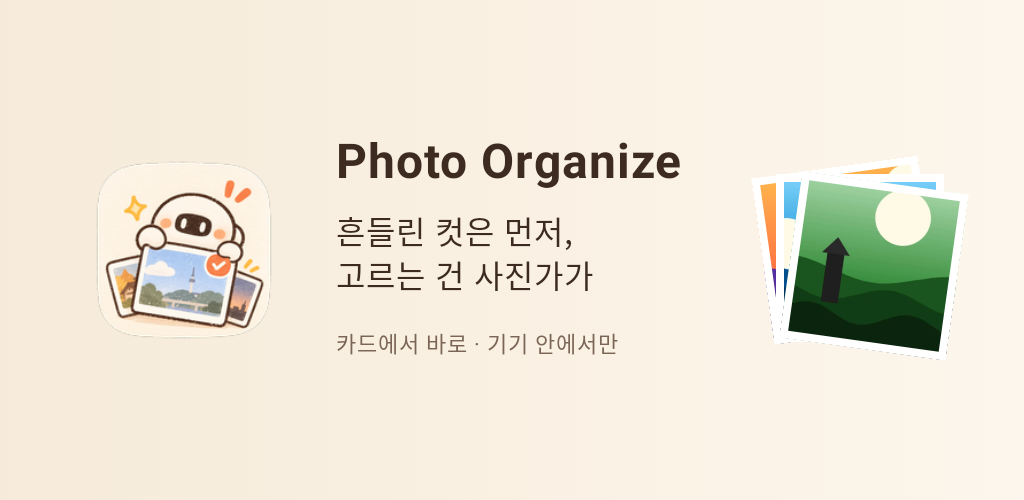
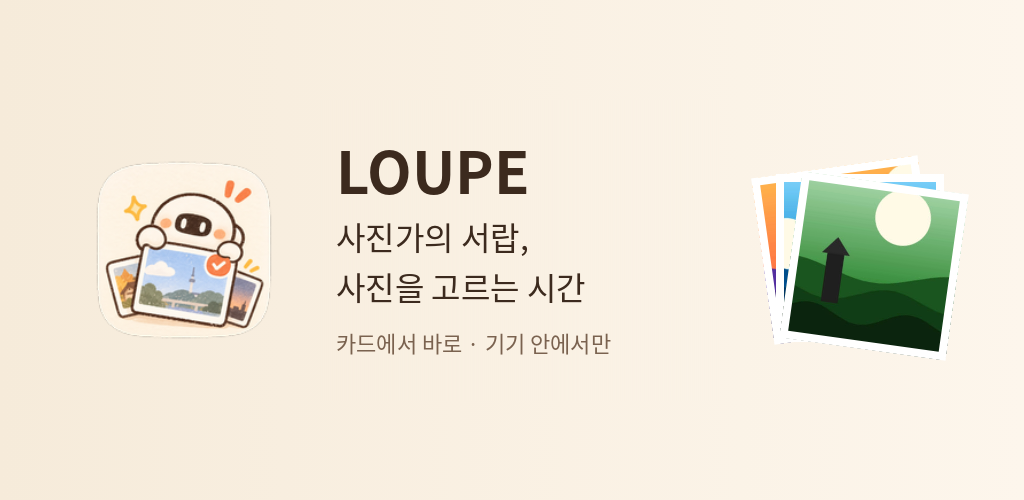
브랜딩 통일: LOUPE — 사진가의 서랍, 사진을 고르는 시간
- 앱 표시 이름 · 창 제목 · macOS .app 이름 · Windows 실행 파일 정보를 LOUPE 로 통일
- 데스크톱 첫 화면 · 안드로이드 설정 화면 · 판매 사이트 · README 에 '사진가의 서랍, 사진을 고르는 시간' 반영
- Google Play · Mac App Store 등록 문구 및 그래픽 이미지(feature-graphic.png)를 LOUPE 브랜딩으로 갱신
- 파일 형식 · 카탈로그 폴더(.photo-organize) · 설정 폴더 · 번들/패키지 ID 는 기존 호환을 위해 그대로 유지

Changed region(s): [[0.3125, 0.42, 0.5938, 0.63], [0.3125, 0.27, 0.6875, 0.39], [0.3438, 0.66, 0.625, 0.72]]

diff --git a/site/web/index.html b/site/web/index.html
@@ -2,9 +2,9 @@
 <html lang="ko">
 <head>
 <!--#include head-->
-<title>Photo Organize — 고를수록 내 눈을 닮아 가는 셀렉</title>
+<title>LOUPE — 사진가의 서랍, 사진을 고르는 시간</title>
 <meta name="description" content="SD 카드를 꽂으면 날짜별로 정리하고, 흔들리고 핀 나간 B컷은 먼저 걸러 두고, 잘 나온 A컷은 앞에 모아 두는 사진가의 셀렉 앱. 고를수록 내 기준과 취향을 배우고, 사진은 기기 밖으로 나가지 않습니다.">
-<meta property="og:title" content="Photo Organize — 고를수록 내 눈을 닮아 가는 셀렉">
+<meta property="og:title" content="LOUPE — 사진가의 서랍, 사진을 고르는 시간">
 <meta property="og:description" content="B컷은 먼저 걸러 두고, A컷은 먼저 보여 주는 사진가의 셀렉 앱. 사진은 기기 밖으로 나가지 않아요.">
 </head>
 <body>
@@ -16,7 +16,7 @@
 <section class="hero">
   <div class="wrap">
     <div>
-      <span class="eyebrow">사진가를 위한 정리 · 셀렉 앱</span>
+      <span class="eyebrow">LOUPE · 사진가의 서랍, 사진을 고르는 시간</span>
       <h1 class="display">고를수록<br><span class="nowrap"><em>내 눈</em>을 닮아 가는</span><br>셀렉</h1>
       <p class="lead">수천 장 가운데 흔들리고 핀 나간 B컷은 먼저 걸러 두고, 잘 나온 A컷은 앞에 모아 둡니다. 평소처럼 고르기만 하면, 당신의 기준과 취향을 배워요.</p>
       <div class="hero-cta">
@@ -36,8 +36,8 @@
         <span class="sparkle s1" aria-hidden="true"><svg><use href="#i-sparkle"/></svg></span>
         <span class="sparkle s2" aria-hidden="true"><svg><use href="#i-sparkle"/></svg></span>
         <span class="sparkle s3" aria-hidden="true"><svg><use href="#i-sparkle"/></svg></span>
-        <div class="window" role="img" aria-label="Photo Organize 화면: 가져온 사진 가운데 B컷 후보를 걸러 두고 A컷 후보를 먼저 보여 주는 모습">
-          <div class="window-bar"><i></i><i></i><i></i><span class="window-title">Photo Organize — <b data-demo-title>새 항목 12장</b></span></div>
+        <div class="window" role="img" aria-label="LOUPE 화면: 가져온 사진 가운데 B컷 후보를 걸러 두고 A컷 후보를 먼저 보여 주는 모습">
+          <div class="window-bar"><i></i><i></i><i></i><span class="window-title">LOUPE — <b data-demo-title>새 항목 12장</b></span></div>
           <div class="cull-bar"><span data-demo-bar><strong>가져오기 완료</strong> · 날짜별 폴더로 정리됨</span><span class="learned">학습됨 · A 122 · B 33</span></div>
           <div class="grid-demo" data-grid data-step="0">
             <noscript><img src="/assets/shots/taste.jpg" alt="" style="grid-column:1/-1"></noscript>
@@ -249,7 +249,7 @@
       </article>
       <article class="plan featured reveal" data-plan>
         <span class="ribbon">구독 없음</span>
-        <h3 data-plan-name>Photo Organize 라이선스</h3>
+        <h3 data-plan-name>LOUPE 라이선스</h3>
         <div class="amount"><span data-plan-price>89,000</span><small>원</small></div>
         <div class="amount-note" data-plan-note>한 번 결제 · 구독 없음</div>
         <ul data-plan-features>
@@ -276,7 +276,7 @@
       <details><summary>구독인가요?</summary><p>아니요. 한 번 결제하면 계속 쓸 수 있어요. 결제 후 1년 동안 나오는 새 버전은 무료이고, 그 뒤에도 쓰던 버전은 그대로 쓸 수 있습니다.</p></details>
       <details><summary>사진이 서버로 올라가나요?</summary><p>아니요. 분석과 학습은 모두 내 컴퓨터에서 해요. 이 웹사이트에는 결제와 라이선스에 필요한 정보(이메일, 주문, 등록한 컴퓨터 이름)만 저장됩니다.</p></details>
       <details><summary>어떤 카메라를 지원하나요?</summary><p>Canon · Nikon · Sony · Fujifilm · Panasonic · OM · Pentax · Leica 등 대부분의 RAW와 JPEG · HEIF를 읽어요. RAW 안에 들어 있는 미리보기를 쓰기 때문에 새 기종도 대개 바로 열립니다.</p></details>
-      <details><summary>라이트룸과 같이 쓸 수 있나요?</summary><p>네. 별점과 거절은 XMP 사이드카에 기록돼 Lightroom · Bridge에서 그대로 보이고, 작품 폴더는 폴더째 가져와 편집하면 됩니다. Photo Organize에는 편집 기능을 일부러 넣지 않았어요.</p></details>
+      <details><summary>라이트룸과 같이 쓸 수 있나요?</summary><p>네. 별점과 거절은 XMP 사이드카에 기록돼 Lightroom · Bridge에서 그대로 보이고, 작품 폴더는 폴더째 가져와 편집하면 됩니다. LOUPE에는 편집 기능을 일부러 넣지 않았어요.</p></details>
       <details><summary>B컷을 자동으로 지우나요?</summary><p>아니요. 표시만 합니다. 거절한 사진도 파일은 그대로 남고, 언제든 되돌릴 수 있어요. 셀렉이 끝나 정말 필요 없는 사진은 직접 <b>휴지통으로</b> 옮길 수 있는데, 먼저 묻고 RAW · JPEG · XMP를 함께 시스템 휴지통으로 옮기므로 비우기 전에는 되살릴 수 있어요. 지운 사진의 거절 · 픽 · 별점은 학습 기록으로 남아 셀렉 도우미가 잊지 않습니다.</p></details>
       <details><summary>컴퓨터를 바꾸면 어떻게 하나요?</summary><p>라이선스 하나로 컴퓨터 3대까지 쓸 수 있어요. <a href="/account">내 라이선스</a>에서 쓰지 않는 컴퓨터를 빼면 새 컴퓨터를 등록할 수 있습니다.</p></details>
       <details><summary>환불은 어떻게 하나요?</summary><p>결제 후 {{refundDays}}일 안에는 이유를 묻지 않고 전액 환불해 드려요. 자세한 내용은 <a href="/refund">환불 규정</a>을 봐 주세요.</p></details>

diff --git a/site/web/privacy.html b/site/web/privacy.html
@@ -2,7 +2,7 @@
 <html lang="ko">
 <head>
 <!--#include head-->
-<title>개인정보처리방침 — Photo Organize</title>
+<title>개인정보처리방침 — LOUPE</title>
 </head>
 <body>
 <!--#include icons-->
@@ -12,7 +12,7 @@
     <span class="eyebrow">개인정보</span>
     <h1>개인정보처리방침</h1>
     <p>{{business.name}}(이하 “판매자”)은 「개인정보 보호법」에 따라 이용자의 개인정보를 보호하고, 관련 고충을 신속하게 처리하기 위해 다음과 같이 개인정보처리방침을 둡니다.</p>
-    <p><b>Photo Organize 앱은 사진을 이용자의 컴퓨터 안에서만 처리하며, 사진이나 사진의 분석 결과를 판매자에게 보내지 않습니다.</b> 이 방침은 라이선스 구매 · 관리를 위해 이 웹사이트에서 처리하는 정보에 대한 것입니다.</p>
+    <p><b>LOUPE 앱은 사진을 이용자의 컴퓨터 안에서만 처리하며, 사진이나 사진의 분석 결과를 판매자에게 보내지 않습니다.</b> 이 방침은 라이선스 구매 · 관리를 위해 이 웹사이트에서 처리하는 정보에 대한 것입니다.</p>
     <p><b>Mac App Store 에서 받은 앱</b>은 인터넷에 연결하지 않으며, 어떤 정보도 판매자에게 보내지 않습니다. App Store 의 구매 · 결제 정보는 Apple 이 처리하며 판매자는 받지 않습니다.</p>
     <p><b>Google Play 에서 받은 안드로이드 앱</b>은 인터넷 권한이 없어 어떤 정보도 기기 밖으로 보내지 않습니다. 사진과 셀렉 기록은 기기 안의 앱 전용 폴더에만 저장되고, 앱을 지우면 함께 지워집니다. Google Play 의 구매 · 결제 정보는 Google 이 처리하며 판매자는 받지 않습니다.</p>
 

diff --git a/site/web/terms.html b/site/web/terms.html
@@ -2,7 +2,7 @@
 <html lang="ko">
 <head>
 <!--#include head-->
-<title>이용약관 — Photo Organize</title>
+<title>이용약관 — LOUPE</title>
 </head>
 <body>
 <!--#include icons-->
@@ -13,11 +13,11 @@
     <h1>이용약관</h1>
 
     <h2>제1조 (목적)</h2>
-    <p>이 약관은 {{business.name}}(이하 “판매자”)이 이 웹사이트에서 판매하는 Photo Organize 소프트웨어 라이선스(이하 “라이선스”)와 관련 서비스의 이용 조건 및 절차, 판매자와 이용자의 권리 · 의무를 정합니다.</p>
+    <p>이 약관은 {{business.name}}(이하 “판매자”)이 이 웹사이트에서 판매하는 LOUPE 소프트웨어 라이선스(이하 “라이선스”)와 관련 서비스의 이용 조건 및 절차, 판매자와 이용자의 권리 · 의무를 정합니다.</p>
 
     <h2>제2조 (정의)</h2>
     <ul>
-      <li>“앱”이란 판매자가 배포하는 사진 정리 · 셀렉 프로그램 Photo Organize를 말합니다.</li>
+      <li>“앱”이란 판매자가 배포하는 사진 정리 · 셀렉 프로그램 LOUPE를 말합니다.</li>
       <li>“라이선스”란 앱을 이 약관에 따라 사용할 수 있는 권리를, “라이선스 키”란 이를 확인하는 문자열을 말합니다.</li>
       <li>“이용자”란 이 웹사이트에 로그인해 라이선스를 구매하거나 관리하는 사람을 말합니다.</li>
     </ul>

diff --git a/android/app/src/test/java/io/github/mj_best/photoorganize/ScreensTest.kt b/android/app/src/test/java/io/github/mj_best/photoorganize/ScreensTest.kt
@@ -233,9 +233,9 @@ private fun FeatureGraphic(photos: List<ImageBitmap>) {
             )
             androidx.compose.foundation.layout.Spacer(androidx.compose.ui.Modifier.size(14.dp))
             androidx.compose.foundation.layout.Column(androidx.compose.ui.Modifier.weight(1f)) {
-                androidx.compose.material3.Text("Photo Organize", color = p.text, fontSize = 24.sp, fontWeight = androidx.compose.ui.text.font.FontWeight.Bold, softWrap = false)
+                androidx.compose.material3.Text("LOUPE", color = p.text, fontSize = 30.sp, fontWeight = androidx.compose.ui.text.font.FontWeight.Bold, softWrap = false)
                 androidx.compose.foundation.layout.Spacer(androidx.compose.ui.Modifier.height(8.dp))
-                androidx.compose.material3.Text("흔들린 컷은 먼저,\n고르는 건 사진가가", color = p.text, fontSize = 16.sp, lineHeight = 22.sp, softWrap = false)
+                androidx.compose.material3.Text("사진가의 서랍,\n사진을 고르는 시간", color = p.text, fontSize = 16.sp, lineHeight = 22.sp, softWrap = false)
                 androidx.compose.foundation.layout.Spacer(androidx.compose.ui.Modifier.height(10.dp))
                 androidx.compose.material3.Text("카드에서 바로 · 기기 안에서만", color = p.text2, fontSize = 11.sp, softWrap = false)
             }

diff --git a/site/web/js/account.js b/site/web/js/account.js
@@ -30,7 +30,7 @@ function licenseCard(l) {
   return `
     <section class="panel license">
       <div style="display:flex;justify-content:space-between;align-items:center;gap:12px;flex-wrap:wrap">
-        <h2 style="margin:0">Photo Organize 라이선스</h2>
+        <h2 style="margin:0">LOUPE 라이선스</h2>
         <span class="status${active ? '' : ' off'}">${active ? '사용 중' : '해지됨'}</span>
       </div>
       <div class="license-key">
@@ -49,7 +49,7 @@ function licenseCard(l) {
 const howTo = () =>
   SITE.appActivation
     ? `<section class="panel"><h2>앱에서 쓰는 법</h2><ol class="muted" style="margin:0;padding-left:20px">
-        <li>Photo Organize를 열고 <b>설정 → 라이선스</b>로 가세요.</li>
+        <li>LOUPE를 열고 <b>설정 → 라이선스</b>로 가세요.</li>
         <li>위의 라이선스 키를 붙여 넣고 <b>등록</b>을 누르세요.</li>
         <li>컴퓨터를 바꿀 때는 이 페이지에서 쓰지 않는 컴퓨터를 빼 주세요.</li></ol></section>`
     : `<section class="panel"><h2>앱에서 쓰는 법</h2><p class="muted" style="margin:0">앱에 키를 넣는 기능은 다음 업데이트에서 열려요. 그때까지 모든 기능을 그대로 쓰실 수 있고, 키는 이 페이지에 안전하게 보관됩니다.</p></section>`;

diff --git a/android/app/src/main/java/io/github/mj_best/photoorganize/ui/Dialogs.kt b/android/app/src/main/java/io/github/mj_best/photoorganize/ui/Dialogs.kt
@@ -117,11 +117,11 @@ fun SettingsDialog(
                 Text(libraryPath, color = p.text2, fontSize = 12.sp)
                 Text(
                     "앱을 지우면 이 폴더의 사진도 함께 지워집니다. 고른 사진은 컴퓨터로 옮겨 두세요 — " +
-                        "별점 · 거절은 XMP 사이드카에 있어 Photo Organize 데스크톱 앱과 라이트룸에서 그대로 보입니다.",
+                        "별점 · 거절은 XMP 사이드카에 있어 LOUPE 데스크톱 앱과 라이트룸에서 그대로 보입니다.",
                     color = p.text3, fontSize = 13.sp,
                 )
                 HorizontalDivider(color = p.separator)
-                Text("Photo Organize $version", color = p.text2, fontSize = 13.sp)
+                Text("LOUPE $version — 사진가의 서랍, 사진을 고르는 시간", color = p.text2, fontSize = 13.sp)
                 Text(
                     "사진은 기기 밖으로 나가지 않습니다 (인터넷 권한 없음). 얼굴 인식 YuNet(MIT), 장면 인식 MobileNetV2(Apache-2.0) 모델을 씁니다.",
                     color = p.text3, fontSize = 12.sp,

diff --git a/site/web/partials/footer.html b/site/web/partials/footer.html
@@ -1,7 +1,7 @@
 <footer class="site-footer">
   <div class="wrap">
     <div class="top">
-      <a class="brand" href="/"><img src="/assets/img/icon-256.png" alt="" width="32" height="32">Photo Organize</a>
+      <a class="brand" href="/"><img src="/assets/img/icon-256.png" alt="" width="32" height="32">LOUPE</a>
       <nav aria-label="바닥 메뉴">
         <a href="/#pricing">가격</a>
         <a href="{{downloads.releases}}">다운로드</a>
@@ -16,7 +16,7 @@
       <span>상호 {{business.name}}</span><span>대표 {{business.ceo}}</span><span>사업자등록번호 {{business.registrationNumber}}</span><span>통신판매업 신고 {{business.mailOrderNumber}}</span><br>
       <span>주소 {{business.address}}</span><span>문의 {{business.email}}</span><span>전화 {{business.phone}}</span>
     </p>
-    <p class="biz">© Photo Organize · 사진은 기기 밖으로 나가지 않습니다.</p>
+    <p class="biz">© LOUPE · 사진은 기기 밖으로 나가지 않습니다.</p>
   </div>
 </footer>
 <div class="toast" role="status" aria-live="polite" data-toast></div>

diff --git a/site/web/checkout.html b/site/web/checkout.html
@@ -2,7 +2,7 @@
 <html lang="ko">
 <head>
 <!--#include head-->
-<title>구매하기 — Photo Organize</title>
+<title>구매하기 — LOUPE</title>
 <meta name="robots" content="noindex">
 </head>
 <body>
@@ -20,7 +20,7 @@
       <aside class="panel">
         <div class="summary-product">
           <img src="/assets/img/icon-256.png" alt="" width="64" height="64">
-          <div><b data-plan-name>Photo Organize 라이선스</b><span class="muted small" data-plan-note>한 번 결제 · 구독 없음</span></div>
+          <div><b data-plan-name>LOUPE 라이선스</b><span class="muted small" data-plan-note>한 번 결제 · 구독 없음</span></div>
         </div>
         <ul class="feature-list" data-plan-features>
           <li><svg aria-hidden="true"><use href="#i-check"/></svg><span>가져오기 · 정리 · 셀렉 · 작품 폴더, 모든 기능</span></li>

diff --git a/site/web/partials/header.html b/site/web/partials/header.html
@@ -1,7 +1,7 @@
 <a class="sr-only" href="#main">본문으로 건너뛰기</a>
 <header class="site-header" data-header>
   <div class="wrap">
-    <a class="brand" href="/"><img src="/assets/img/icon-256.png" alt="" width="32" height="32">Photo Organize</a>
+    <a class="brand" href="/"><img src="/assets/img/icon-256.png" alt="" width="32" height="32">LOUPE</a>
     <nav class="nav" aria-label="주요 메뉴">
       <a href="/#flow">흐름</a>
       <a href="/#assistant">셀렉 도우미</a>

diff --git a/site/functions/src/catalog.js b/site/functions/src/catalog.js
@@ -13,9 +13,9 @@ export const TAX_FREE = true;
 export const PRODUCTS = [
   {
     id: 'license',
-    name: 'Photo Organize 라이선스',
+    name: 'LOUPE 라이선스',
     // Shown in the payment window and on the receipt (max 100 characters).
-    orderName: 'Photo Organize 라이선스 (영구)',
+    orderName: 'LOUPE 라이선스 (영구)',
     price: 89000,
     priceNote: '한 번 결제 · 구독 없음',
     maxDevices: 3,

diff --git a/site/web/partials/head.html b/site/web/partials/head.html
@@ -7,6 +7,6 @@
 <link rel="stylesheet" href="/assets/fonts/fonts.css?v={{v}}">
 <link rel="stylesheet" href="/assets/css/site.css?v={{v}}">
 <meta property="og:type" content="website">
-<meta property="og:site_name" content="Photo Organize">
+<meta property="og:site_name" content="LOUPE">
 <meta property="og:image" content="/assets/shots/library.jpg">
 <meta property="og:locale" content="ko_KR">

diff --git a/site/web/assets/css/site.css b/site/web/assets/css/site.css
@@ -1,4 +1,4 @@
-/* Photo Organize — the app's 크림 (light) and 코코아 (dark) themes, on the web.
+/* LOUPE — the app's 크림 (light) and 코코아 (dark) themes, on the web.
    Colours come from crates/app/src/theme.rs, sampled from the app icon:
    paper #FDF3E6, cocoa outline #3D2B21, check badge #F87E4A, sparkle #FCB840. */
 
